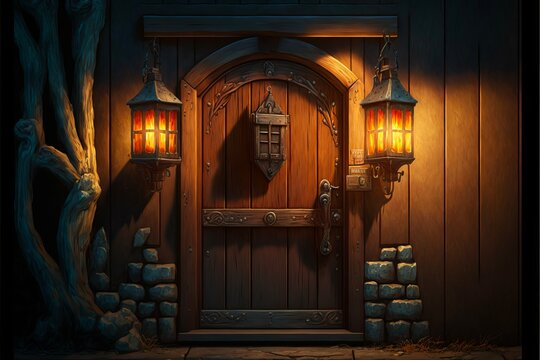
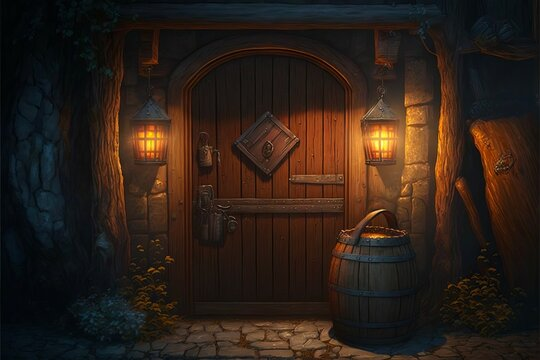
Add third background

diff --git a/scripts/gameStartOptions.js b/scripts/gameStartOptions.js
@@ -72,7 +72,9 @@ startGameBtn.addEventListener("click", (e) => {
     }
   }
   smoothFadeOut(nicknamesForm, FADE_TIME);
-  // smoothFadeOut(arrowBackBtn, FADE_TIME);
+  smoothFadeOut(arrowBackBtn, FADE_TIME);
+
+  document.body.style.backgroundImage = "url('images/table.jpg')";
 });
 
 arrowBackBtn.addEventListener("click", () => {

diff --git a/scripts/welcome.js b/scripts/welcome.js
@@ -11,6 +11,7 @@ const initialForm = document.querySelector(".options");
 let bgMusic;
 
 playBtn.addEventListener("click", (e) => {
+  document.body.style.backgroundImage = "url('images/tavern_bg.webp')";
   const markup = `
   <audio id="background_music" autoplay loop >
    <source src="audio/intro.mp3" type="audio/mpeg" />

diff --git a/style.css b/style.css
@@ -29,8 +29,10 @@
 }
 
 body {
-  background-image: url("images/tavern_bg.webp");
+  background-image: url("images/door.jpg");
+  background-size: cover;
   background-repeat: no-repeat;
   background-attachment: fixed;
   min-height: 100vh;
+  transition: background-image 1s;
 }
